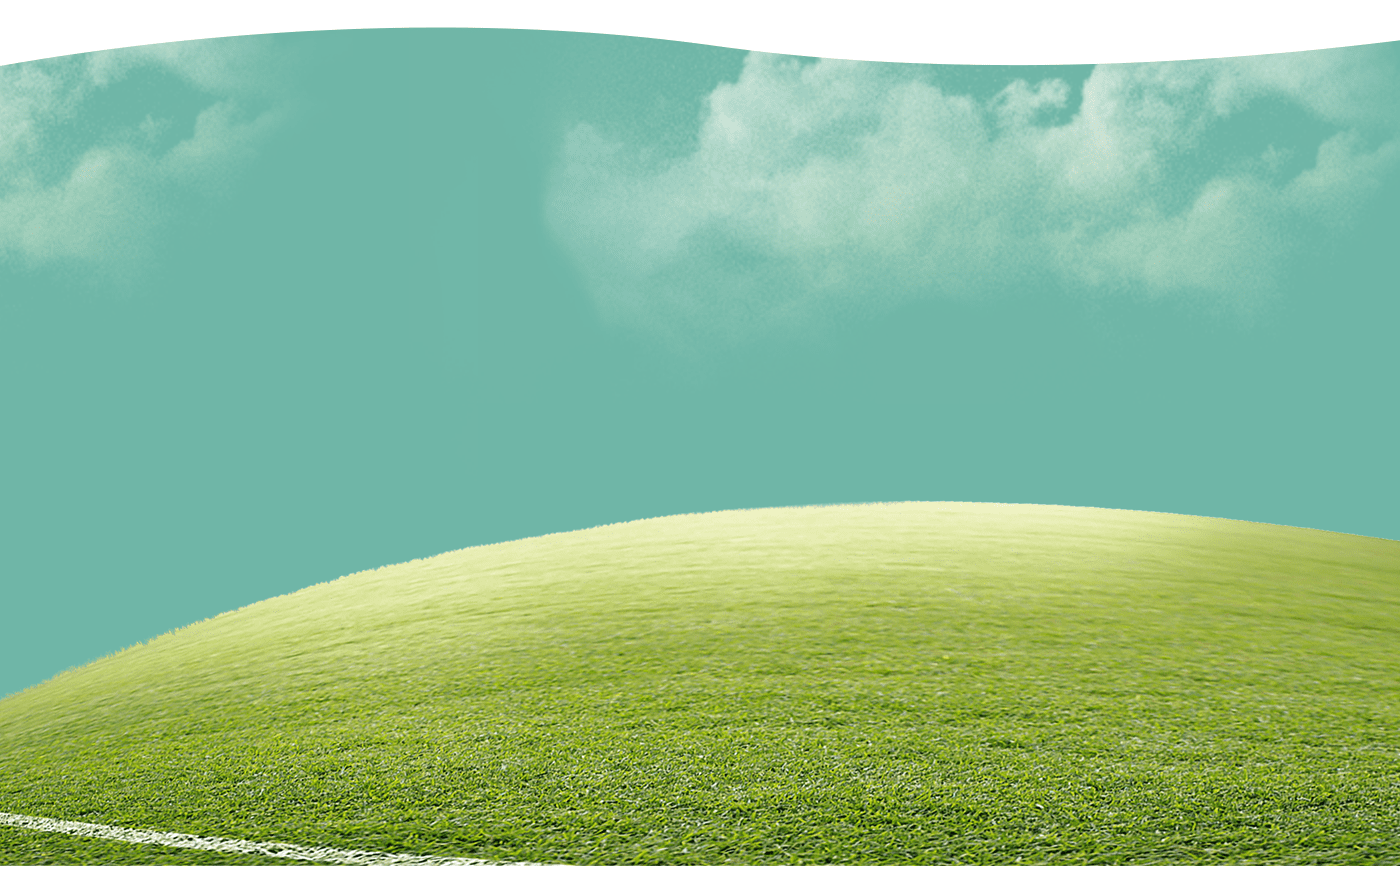
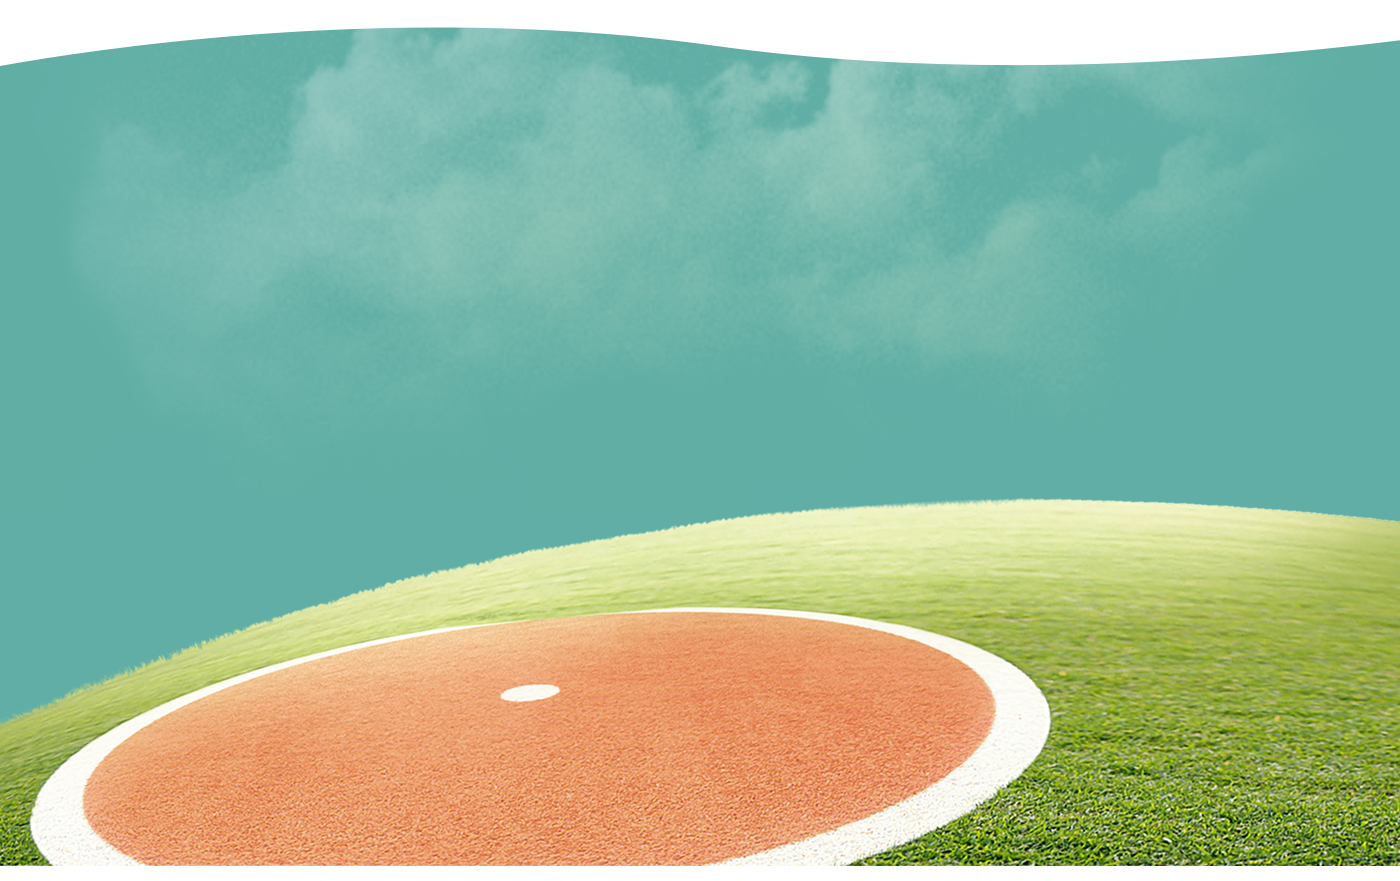
preguntas frecuentes added

diff --git a/faqs.html b/faqs.html
@@ -16,7 +16,7 @@
         <div class="grid">
            
             <div class="headLine-hero">
-                <a href="./index.html"><img class="headLine" src="./img/HeadLine.png" alt=""></a>
+                <a href="./index.html"><img class="headLine" src="./img/HeadLine_baseball.png" alt=""></a>
             </div>
 
             <div class="botones-hero">
@@ -27,50 +27,87 @@
 
 
 
-
+            <br><br>
 
             <div class="faqs-textos">
-                <h1 class="weight-600">
-                  Preguntas Frefuentes
-                </h1>
+                <h1 class="weight-600"> Preguntas Frefuentes  </h1>
 
-                <div>
-Lorem ipsum dolor sit amet, consectetur adipiscing elit. Phasellus eu blandit tellus. Proin tristique eu lorem non tincidunt. Aliquam eros dui, egestas hendrerit ornare pretium, vehicula et elit. Maecenas sed cursus purus. Quisque dictum quis purus eu molestie. Quisque blandit urna ut purus venenatis, non aliquam erat dignissim. Pellentesque sed suscipit arcu. Nam dapibus orci erat, a vulputate odio finibus non.
-
-In molestie faucibus enim, at malesuada diam interdum quis. Pellentesque placerat, ligula id venenatis dignissim, est justo congue nisi, venenatis ullamcorper neque dui a tortor. Morbi congue neque est, a facilisis sapien blandit et. Aliquam facilisis lacus quam, vitae laoreet ante aliquet ac. Vestibulum nec fermentum nulla. Quisque suscipit nibh nec nisl pellentesque, vitae varius lorem pulvinar. Nulla libero leo, mollis in rhoncus nec, aliquet nec ipsum. Nam sed felis eget tellus imperdiet porta. Pellentesque ut dolor a odio facilisis dictum. Ut nec tellus vel sapien scelerisque faucibus id at turpis.
-
-Phasellus enim enim, gravida vitae egestas sed, dictum in erat. Vestibulum molestie, justo ut interdum luctus, dui ante volutpat arcu, sit amet blandit orci ex et orci. Fusce aliquet felis quis lectus rutrum egestas. Fusce hendrerit, nisl vitae dignissim scelerisque, metus nisi aliquet eros, ac pellentesque ligula neque et nibh. Curabitur nisl ex, vulputate vitae nisi vel, aliquam fermentum magna. Pellentesque at mauris et justo fringilla eleifend. Donec arcu nisl, volutpat nec pulvinar sit amet, viverra id justo. Maecenas interdum ante eu tellus porttitor, vel varius ipsum semper.
-
-Nam eu consectetur enim, sed elementum ipsum. In cursus nunc orci, et gravida enim dapibus eu. Maecenas maximus sit amet est in auctor. Morbi volutpat leo nec turpis vestibulum, blandit fermentum mi bibendum. Interdum et malesuada fames ac ante ipsum primis in faucibus. Duis sit amet ultrices elit. Vivamus tempor accumsan dolor consequat mattis. Integer at augue faucibus, viverra sem id, ultricies metus. Curabitur scelerisque sodales tincidunt. Fusce suscipit iaculis dapibus. Praesent venenatis massa et luctus sollicitudin. Sed convallis tincidunt lectus, in ullamcorper nisl tristique a. Donec commodo nibh sed aliquam blandit. Aenean laoreet lorem eget viverra interdum. Vivamus nec scelerisque ligula. Nulla malesuada, odio sed auctor tristique, risus tellus accumsan neque, eget convallis lacus odio id sapien.
-
-Aenean quis ultricies dui, at viverra massa. Nam pellentesque elementum libero, eget pulvinar risus condimentum non. Donec ornare mauris eu venenatis dapibus. Fusce ac ullamcorper diam, sit amet imperdiet risus. Vestibulum eget turpis accumsan dui ornare tempor id non leo. Pellentesque at posuere libero, vel venenatis magna. Vivamus ac elit nec tellus mattis consectetur lacinia eget odio. Phasellus vitae tellus eget nibh tincidunt volutpat sagittis sit amet odio. Morbi non mauris ac nibh consequat luctus.
+                <br><br>
 
 
-Lorem ipsum dolor sit amet, consectetur adipiscing elit. Phasellus eu blandit tellus. Proin tristique eu lorem non tincidunt. Aliquam eros dui, egestas hendrerit ornare pretium, vehicula et elit. Maecenas sed cursus purus. Quisque dictum quis purus eu molestie. Quisque blandit urna ut purus venenatis, non aliquam erat dignissim. Pellentesque sed suscipit arcu. Nam dapibus orci erat, a vulputate odio finibus non.
-
-In molestie faucibus enim, at malesuada diam interdum quis. Pellentesque placerat, ligula id venenatis dignissim, est justo congue nisi, venenatis ullamcorper neque dui a tortor. Morbi congue neque est, a facilisis sapien blandit et. Aliquam facilisis lacus quam, vitae laoreet ante aliquet ac. Vestibulum nec fermentum nulla. Quisque suscipit nibh nec nisl pellentesque, vitae varius lorem pulvinar. Nulla libero leo, mollis in rhoncus nec, aliquet nec ipsum. Nam sed felis eget tellus imperdiet porta. Pellentesque ut dolor a odio facilisis dictum. Ut nec tellus vel sapien scelerisque faucibus id at turpis.
-
-Phasellus enim enim, gravida vitae egestas sed, dictum in erat. Vestibulum molestie, justo ut interdum luctus, dui ante volutpat arcu, sit amet blandit orci ex et orci. Fusce aliquet felis quis lectus rutrum egestas. Fusce hendrerit, nisl vitae dignissim scelerisque, metus nisi aliquet eros, ac pellentesque ligula neque et nibh. Curabitur nisl ex, vulputate vitae nisi vel, aliquam fermentum magna. Pellentesque at mauris et justo fringilla eleifend. Donec arcu nisl, volutpat nec pulvinar sit amet, viverra id justo. Maecenas interdum ante eu tellus porttitor, vel varius ipsum semper.
-
-Nam eu consectetur enim, sed elementum ipsum. In cursus nunc orci, et gravida enim dapibus eu. Maecenas maximus sit amet est in auctor. Morbi volutpat leo nec turpis vestibulum, blandit fermentum mi bibendum. Interdum et malesuada fames ac ante ipsum primis in faucibus. Duis sit amet ultrices elit. Vivamus tempor accumsan dolor consequat mattis. Integer at augue faucibus, viverra sem id, ultricies metus. Curabitur scelerisque sodales tincidunt. Fusce suscipit iaculis dapibus. Praesent venenatis massa et luctus sollicitudin. Sed convallis tincidunt lectus, in ullamcorper nisl tristique a. Donec commodo nibh sed aliquam blandit. Aenean laoreet lorem eget viverra interdum. Vivamus nec scelerisque ligula. Nulla malesuada, odio sed auctor tristique, risus tellus accumsan neque, eget convallis lacus odio id sapien.
-
-Aenean quis ultricies dui, at viverra massa. Nam pellentesque elementum libero, eget pulvinar risus condimentum non. Donec ornare mauris eu venenatis dapibus. Fusce ac ullamcorper diam, sit amet imperdiet risus. Vestibulum eget turpis accumsan dui ornare tempor id non leo. Pellentesque at posuere libero, vel venenatis magna. Vivamus ac elit nec tellus mattis consectetur lacinia eget odio. Phasellus vitae tellus eget nibh tincidunt volutpat sagittis sit amet odio. Morbi non mauris ac nibh consequat luctus.
+             
                 
-</div>
-            </div>
 
 
+                <div id="accordion">
+
+                    <h3>¿Cuántos empaques necesito para canjear una pelota?</h3>
+                    <div>
+                      <p>
+                        Necesitarás 15 empaques vacíos de cualquier de nuestros productos.
+                      </p>
+                    </div>
+
+                    <h3>¿Dónde puedo canjear una pelota?</h3>
+                    <div>
+                      <p>
+                        Puedes encontrar el centro de canje más cercano en: (Link del buscador de centros de canje por departamento).
+                      </p>
+                    </div>
+
+                    <h3>¿Hasta que fecha estarán disponibles?</h3>
+                    <div>
+                      <p>
+                        Tienes hasta el 31 de mayo o hasta agotar existencias.
+                      </p> 
+                    </div>
+
+                    <h3>¿Cuántos diseños son?</h3>
+                    <div>
+                      <p>
+                        Tenemos 6 diseños distintos: New York, Houston, Chicago, Los Angeles, Atlanta y Boston.
+                      </p>
+                    </div>
+
+                    <h3>¿Puedo canjear varias pelotas a la vez? </h3>
+                    <div>
+                      <p>
+                        Si, solo recuerda que necesitas 15 empaques por cada pelota.
+                      </p>
+                    </div>
+
+                    <h3>¿Puedo escoger la pelota que más me guste?</h3>
+                    <div>
+                      <p>
+                        Si, pero cada diseño está sujeto a disponibilidad en cada centro de canje.
+                      </p>
+                    </div>
+
+                    <h3>¿En qué países está disponible esta promoción? </h3>
+                    <div>
+                      <p>
+                        Esta promoción está disponible en Nicaragua y República Dominicana.
+                      </p>
+                    </div>
+
+                    <h3>¿Qué hago si hay alguna anomalía en el canje? </h3>
+                    <div>
+                      <p>
+                        Puedes enviar un mensaje a nuestras redes sociales oficinales buscándonos en Facebook o Instagram como Snacks Yummies.
+                      </p>
+                    </div>
 
 
+                </div>
 
+            </div> 
 
-
-
-
-
-
-
-           
+    
+            <br/>
+     
+     
+     
+     
         </div>
     </section>
 
@@ -94,7 +131,15 @@ Aenean quis ultricies dui, at viverra massa. Nam pellentesque elementum libero, 
 
 
         </main>
-            <script async defer src="https://maps.googleapis.com/maps/api/js?key=AIzaSyBS0zuLmLKaB_9hJ_2GCuBwrY10js68UTM&callback=initMap"></script> 
-            <script src="./js/apiMap.js"></script>
+     
+
+
+
+
     </body>
+    <!-- <link rel="stylesheet" href="//code.jquery.com/ui/1.11.2/themes/smoothness/jquery-ui.css"> -->
+    <script src="https://code.jquery.com/jquery-1.12.4.min.js"></script>
+    <script src="https://code.jquery.com/ui/1.11.4/jquery-ui.min.js"></script>
+    <script src="https://cdn.jsdelivr.net/npm/bootstrap@5.0.0-beta3/dist/js/bootstrap.bundle.min.js" integrity="sha384-JEW9xMcG8R+pH31jmWH6WWP0WintQrMb4s7ZOdauHnUtxwoG2vI5DkLtS3qm9Ekf" crossorigin="anonymous"></script>
+    <script src="./js/acordion.js"></script>
 </html>

diff --git a/index.css b/index.css
@@ -71,7 +71,7 @@ button {
     padding-right: 7px;
     letter-spacing: 3px;
     text-align: justify;
-    color: white;
+    /* color: white; */
 }
 .img-hero{
     width: 100%;
@@ -364,6 +364,54 @@ select{
     font-size: 20px;
     color: white;
 }
+
+
+
+
+
+
+
+
+
+
+
+
+
+
+
+
+
+
+
+
+
+
+
+
+
+
+
+
+
+
+
+
+
+
+
+
+
+
+.ui-accordion-header{
+    margin-bottom: 35px;
+    cursor: pointer;
+} 
+  
+#accordion p{
+    background: beige;
+    padding: 10px;
+}
+  
 
 
 

diff --git a/js/acordion.js b/js/acordion.js
@@ -1,0 +1,11 @@
+$(function() {
+    $("#accordion").accordion({
+      animate: 400,
+      active: 0,
+      collapsible: true
+    });
+});
+
+var collapseAll = function(){
+  $("#accordion").accordion("option", "active", false);
+}

diff --git a/js/apiMap.js b/js/apiMap.js
@@ -88,3 +88,8 @@ function initMap() {
 
 
 // }
+
+
+
+
+
